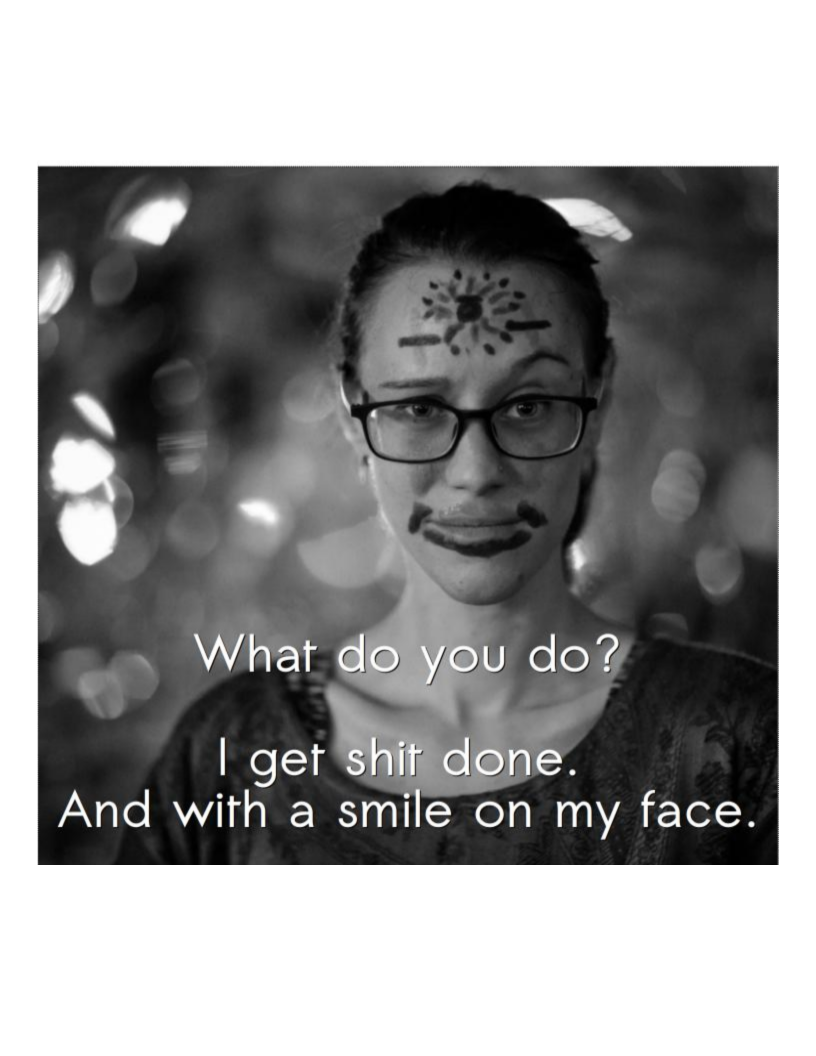
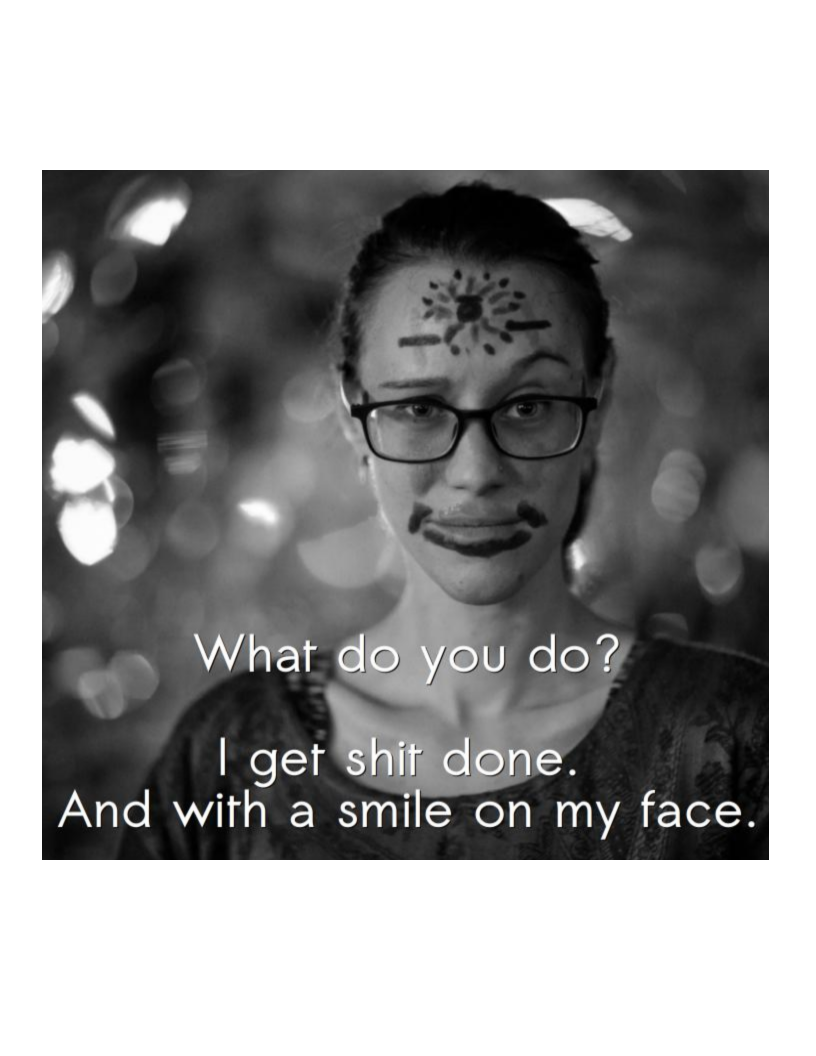
cleanup + design

Changed region(s): [[0.0306, 0.1562, 0.9804, 0.8438]]

diff --git a/src/styles.css b/src/styles.css
@@ -1,14 +1,17 @@
 body{
-    position :sticky;
-    align-items: center;
-    width: 250px;
-    height: 868px;
-    left: 65px;
-    top: 53px;
     background: #23252C;
     padding: 100px;
-    border-width: 10em;
-    border-color: #e3d7f5;
+}
+.main-card {
+    position:center;
+    width:25%;
+    background-color:rgb(31, 28, 53);
+    display: block;
+  }  
+
+.main{
+    margin-top:0;
+    padding-top: 0;
 }
 
 .h1{
@@ -19,7 +22,7 @@ body{
 .h2 {
     margin:0;
     margin-right: auto;
-    color: #61DAFB;
+    color: #dfecef;
 }
 
 .h3 {    
@@ -33,9 +36,8 @@ body{
 .img{
     display: block;
     padding:0;
-    margin-left: auto;
-    margin-right: auto;
     width: 100%;
+    height: 100%;
 }
 
 .main-title{
@@ -55,7 +57,6 @@ body{
 
 .btn-email{
     display: flex;
-    flex-direction: row;
     justify-content: center;
     align-items: center;
     padding: 9px 13px 9px 11px;
@@ -72,7 +73,6 @@ body{
 
 .btn-linkedin{
     display: flex;
-    flex-direction: row;
     justify-content: center;
     align-items: center;
     padding: 9px 13px 9px 11px;

diff --git a/src/App.js b/src/App.js
@@ -1,5 +1,3 @@
-import logo from './logo.svg'
-import './App.css'
 import Footer from './components/Footer'
 import About from './components/About'
 import Interests from './components/Interests'
@@ -8,10 +6,12 @@ import Info from './components/Info'
 function App() {
   return (
     <>
-      <Info />
-      <About />
-      <Interests />
-      <Footer />
+      <div className="main-card">
+        <Info />
+        <About />
+        <Interests />
+        <Footer />
+      </div>
     </>
   )
 }
